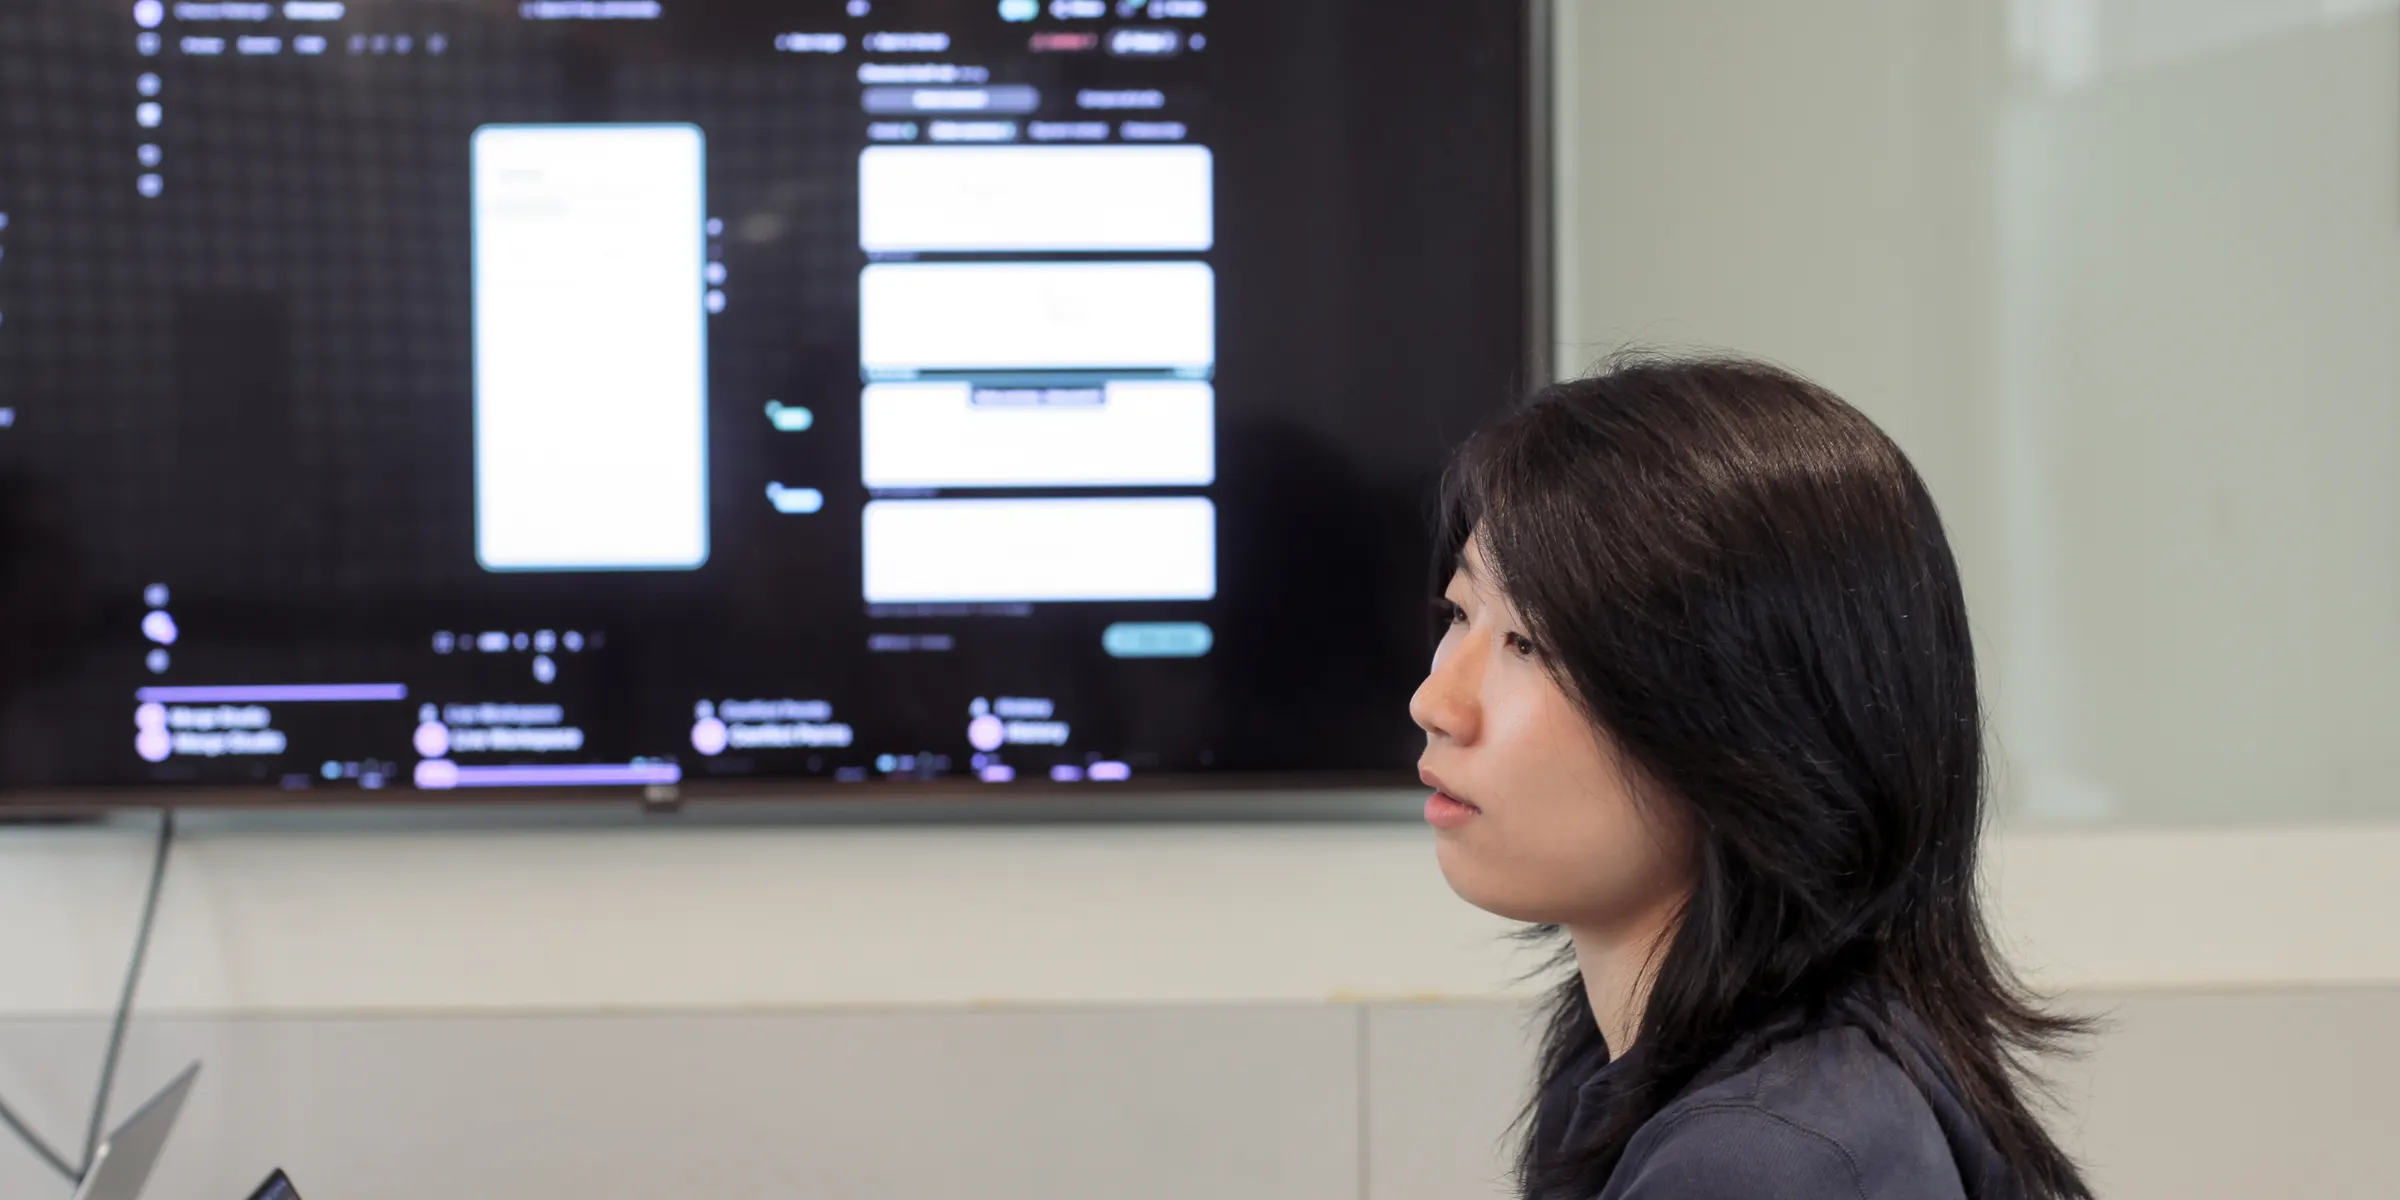
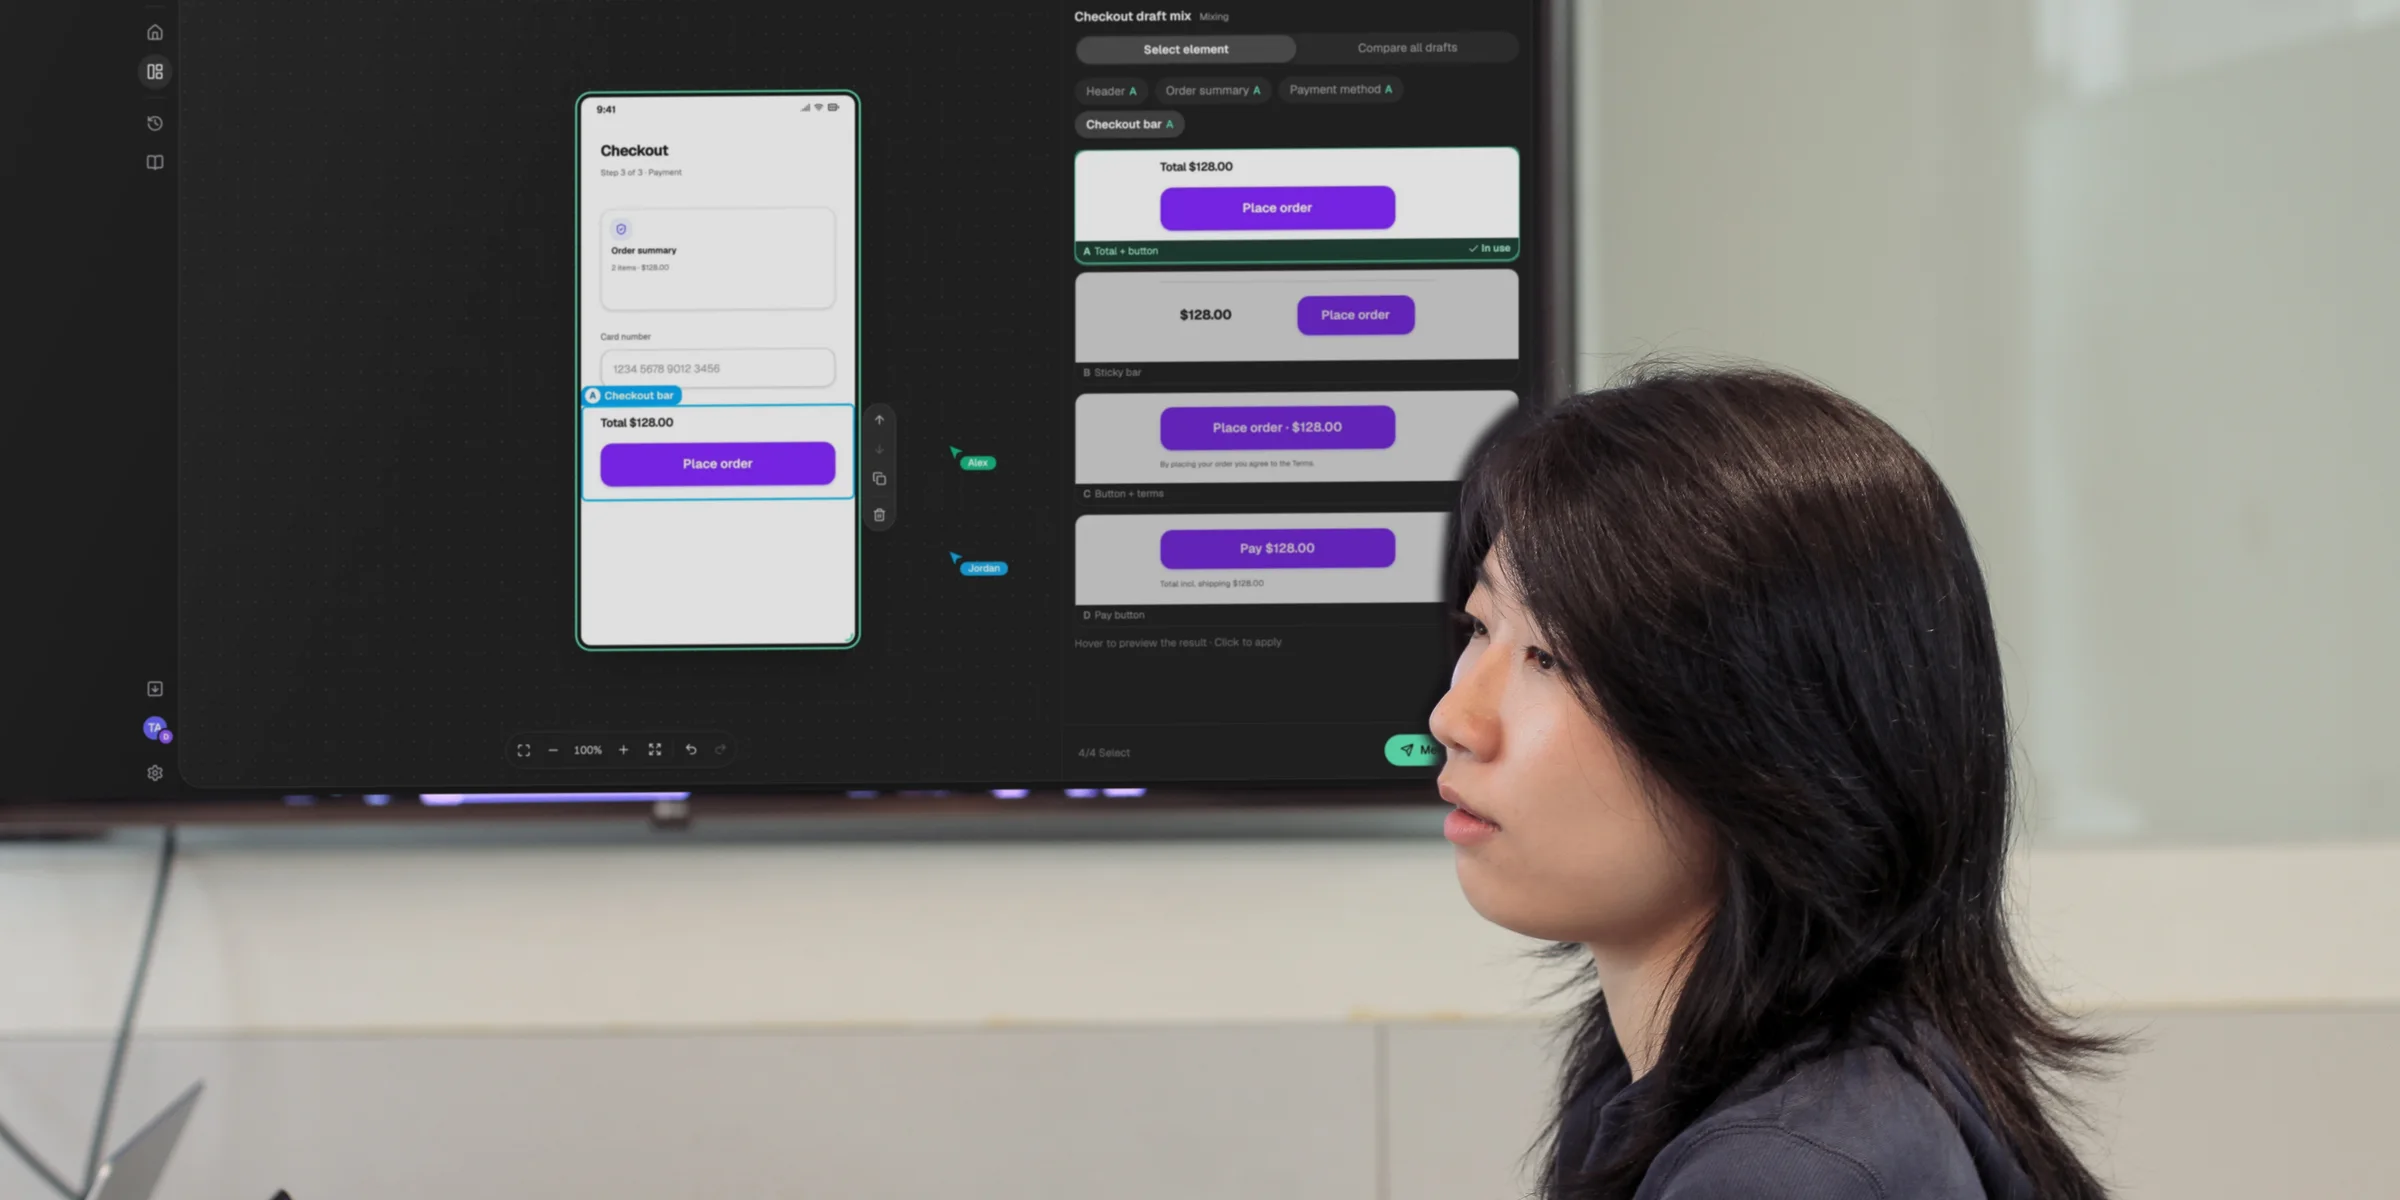
Devsign opener asks about designer–developer collaboration, one-line Problem, plainer Overview headline, sharp prototype on the photo's screen

diff --git a/components/glance-steps.tsx b/components/glance-steps.tsx
@@ -3,7 +3,7 @@
 import type { CSSProperties } from "react";
 import { useHeldSteps } from "./devsign-story";
 
-type Item = { tone: string; label: string; title: string; text: string };
+type Item = { tone: string; label: string; title: string; text?: string };
 
 // The Overview summary as three steps read down, not three columns read across (owner).
 // On desktop the stage holds centred while native scroll moves Problem → Solution → Impact;
@@ -21,7 +21,7 @@ export function GlanceSteps({ items, label }: { items: Item[]; label: string }) 
               </button>
               <div className="dv-gs-body">
                 <p className="dv-gs-title">{item.title}</p>
-                <p className="dv-gs-text">{item.text}</p>
+                {item.text && <p className="dv-gs-text">{item.text}</p>}
               </div>
             </li>
           ))}

diff --git a/claude.md b/claude.md
@@ -1651,3 +1651,5 @@ Gemini UI details are the current prototype (supersedes the four old English cro
 Case clips never show a control bar (owner; supersedes "reduced motion or a refused autoplay shows controls"): lib/video.ts `playClip` plays muted looping clips and, if the browser refuses autoplay, retries on the next scroll, tap or key press; an interrupted play (AbortError from a quick scroll) is ignored (Iteration 1 used to flip to controls permanently on it). `toggleClip` lets a press on any clip pause or resume it, the one control kept without a bar (reduced motion: clips stay on their poster until pressed). Applies to core features, Iteration 1 and 2, Gemini flows and detail-row clips.
 
 About hero follows the theme (owner: the dark photo against the light page below was too sharp a cut; supersedes "always light-on-dark over the photo"): light washes the photo toward the page colour (#f5f6f4 scrims, ink words, ink primary button, header in ink), dark tints the grey photo toward the page hue (a #262a42 colour-blend layer) and keeps the white words. The fade into the page is 50% tall, and the scroll-out drift no longer darkens the photo. Figma not updated.
+
+Devsign opener and Overview copy (owner): the opener asks "AI 시대, 디자이너와 개발자의 협업에는 어떤 문제가 있을까?" / "What gets in the way of designer–developer collaboration in the AI era?" with no subtitle line under it. The Problem summary is one line ("어떤 시안을 쓸지는 채팅에서 정하고, 디자인과 달라진 곳은 출시한 뒤에야 보인다." / "Teams pick a draft in chat, and differences from the design show up only after release."; GlanceSteps `text` is optional). The Overview headline drops "가장 큰 과제": "AI로 만드는 일은 빨라졌지만, 그 결과물을 확인하고 합치는 일은 여전히 어렵다." / "AI made making faster, but checking and combining what it makes is still hard." The case-me.webp screen behind Minyeon is now a sharp Merge Studio capture (handoff-merge-en) composited onto the out-of-focus TV (skewed to the screen's edges, masked around her head with a soft edge, slight blur and lower contrast), at the owner's request; the photo is edited. Figma not updated.
